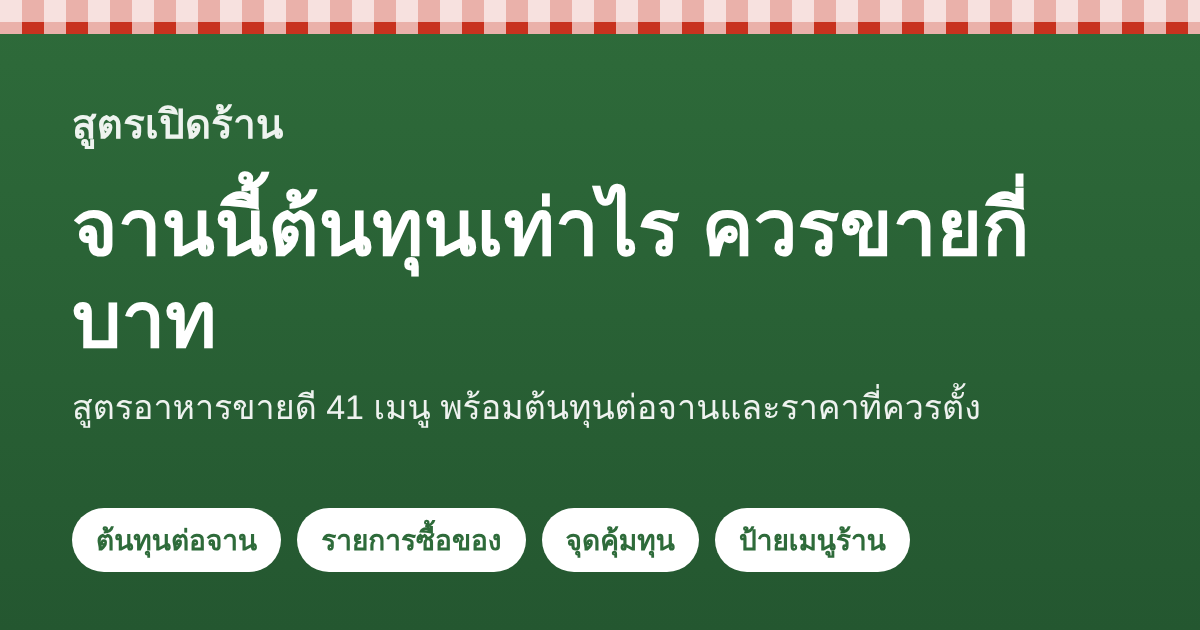
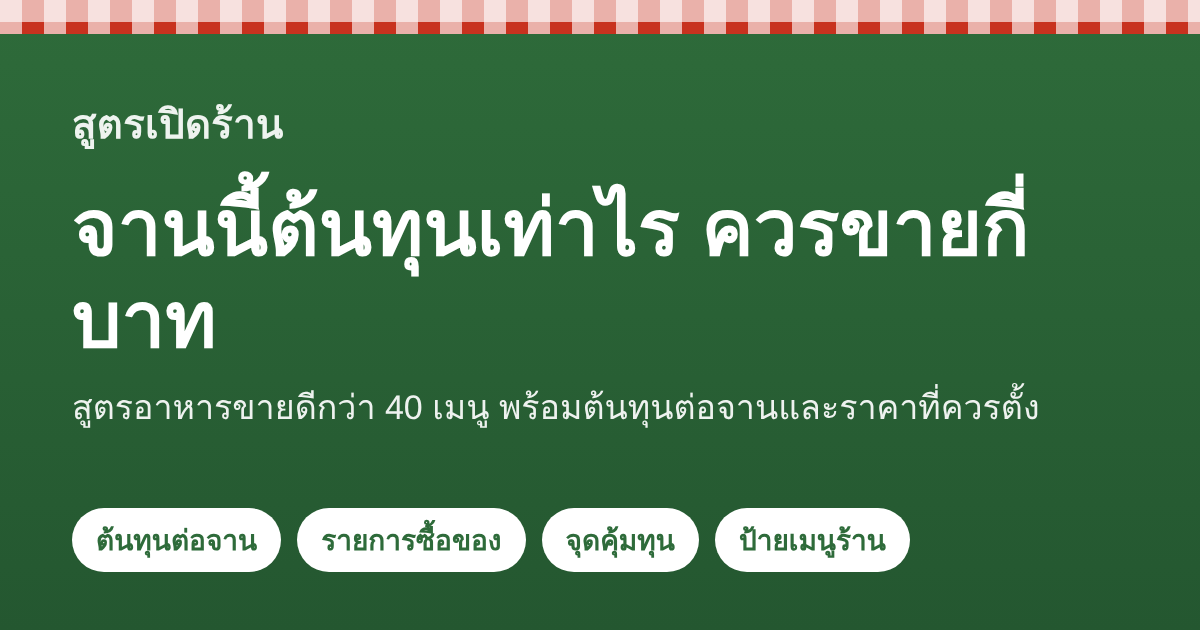
Add stock/shipping, timetable/attendance, counter sales
Claude-Session: https://claude.ai/code/session_01JY46Mq7wkg6osFKinFdLUy

Changed region(s): [[0.2467, 0.6032, 0.8633, 0.6937]]

diff --git a/index.html b/index.html
@@ -179,6 +179,13 @@ dialog.dlg::backdrop{background:rgba(10,20,18,.5)}
 .chk label{display:flex;gap:10px;align-items:flex-start;cursor:pointer}
 .chk input{width:18px;height:18px;margin-top:4px;flex:none;accent-color:var(--leaf)}
 .chk input:checked+span{color:var(--ink-soft);text-decoration:line-through}
+
+/* counter sales */
+.pos-grid{display:grid;grid-template-columns:repeat(auto-fill,minmax(130px,1fr));gap:10px}
+.pos-btn{font:inherit;text-align:left;padding:12px;border-radius:12px;border:1.5px solid var(--line);background:#fff;color:var(--ink);cursor:pointer;display:grid;gap:4px;box-shadow:0 3px 0 rgba(0,0,0,.12);transition:transform .08s,box-shadow .08s}
+.pos-btn:active{transform:translateY(3px);box-shadow:none}
+.pos-btn b{font-weight:600;line-height:1.3}
+.pos-btn span{color:var(--chili);font-weight:700;font-variant-numeric:tabular-nums}
 </style>
 </head>
 <body>
@@ -190,6 +197,7 @@ dialog.dlg::backdrop{background:rgba(10,20,18,.5)}
     <a href="#plan" data-tab="plan"><svg class="ic" viewBox="0 0 24 24" aria-hidden="true"><path d="M3 4h3l2.5 11h9.5l2-8H7"/><circle cx="10" cy="19" r="1.4"/><circle cx="17" cy="19" r="1.4"/></svg>ซื้อของ</a>
     <a href="#prices" data-tab="prices"><svg class="ic" viewBox="0 0 24 24" aria-hidden="true"><path d="M3 12V4h8l10 10-8 8z"/><circle cx="7.5" cy="8.5" r="1.5"/></svg>ราคาของ</a>
     <a href="#breakeven" data-tab="breakeven"><svg class="ic" viewBox="0 0 24 24" aria-hidden="true"><path d="M4 20V5M4 20h16"/><path d="M4 16l6-5 4 3 6-7"/></svg>จุดคุ้มทุน</a>
+    <a href="#pos" data-tab="pos"><svg class="ic" viewBox="0 0 24 24" aria-hidden="true"><rect x="4" y="3" width="16" height="18" rx="2"/><path d="M8 7h8M8 12h.01M12 12h.01M16 12h.01M8 16h.01M12 16h.01M16 16h.01"/></svg>ขายหน้าร้าน</a>
     <a href="#mine" data-tab="mine"><svg class="ic" viewBox="0 0 24 24" aria-hidden="true"><path d="M12 5v14M5 12h14"/></svg>เพิ่มสูตร</a>
   </nav>
 </div></header>
@@ -287,6 +295,27 @@ dialog.dlg::backdrop{background:rgba(10,20,18,.5)}
   </div>
 </section>
 
+<section class="view" id="v-pos">
+  <div class="detail">
+    <div class="card">
+      <h2>แตะเมนูเพื่อคิดเงิน</h2>
+      <div class="pos-grid" id="posMenu"></div>
+      <p class="note">เมนูมาจากรายการในแท็บซื้อของ และราคามาจากป้ายเมนูร้าน</p>
+    </div>
+    <div class="card">
+      <h2>บิลนี้</h2>
+      <div id="posBill"></div>
+      <div class="fields" style="margin-top:12px"><label class="f">รับเงินมา (บาท)<input type="number" id="posCash" min="0" step="1" inputmode="decimal" placeholder="ไม่ใส่ก็ได้"></label></div>
+      <div class="kv" id="posTotal" aria-live="polite"></div>
+      <div class="row" style="margin-top:14px"><button class="btn" id="posDone" type="button">จบบิล</button><button class="btn alt" id="posClear" type="button">ล้างบิล</button></div>
+      <h3>ยอดขายวันนี้</h3>
+      <div id="posDay"></div>
+      <div class="row" style="margin-top:10px"><button class="btn small danger" id="posReset" type="button">ล้างยอดวันนี้</button></div>
+      <p class="note">ยอดขายเก็บอยู่ในเบราว์เซอร์ของเครื่องนี้ และเก็บย้อนหลัง 30 วัน กำไรเป็นค่าประมาณจากต้นทุนวัตถุดิบบวกค่ากล่องและแก๊ส 5 บาทต่อจาน</p>
+    </div>
+  </div>
+</section>
+
 <section class="view" id="v-mine">
   <div class="card" style="max-width:640px">
     <h2>เพิ่มสูตรของฉัน</h2>
@@ -309,13 +338,14 @@ dialog.dlg::backdrop{background:rgba(10,20,18,.5)}
 <h3>แก้ราคาวัตถุดิบ</h3><p>ราคาตั้งต้นเป็นค่าประมาณ เปิดแท็บราคาของ แล้วแก้เป็นราคาที่คุณซื้อจริง ต้นทุนทุกสูตรจะคำนวณใหม่ทันที</p>
 <h3>รายการซื้อของ</h3><ol><li>ในหน้าสูตร กดเพิ่มในรายการซื้อของ ทำซ้ำกับทุกเมนูที่จะขาย</li><li>เปิดแท็บซื้อของ จะเห็นของที่ต้องซื้อรวมทุกเมนู และเงินที่ต้องเตรียม</li><li>กดคัดลอกรายการ เพื่อส่งเข้า LINE หรือจดไปตลาด</li><li>ด้านล่างมีสรุปแผนร้านใน 1 หน้า แสดงรายได้ ต้นทุน และเงินที่เจ้าของเหลือต่อเดือน พร้อมบอกว่าเมนูไหนทำกำไรมากที่สุด</li><li>ถัดลงไปมีป้ายเมนูร้าน ใส่ชื่อร้าน แก้ราคา แล้วกดพิมพ์ป้ายเมนูติดหน้าร้านได้</li></ol>
 <h3>จุดคุ้มทุน</h3><p>เปิดแท็บจุดคุ้มทุน กรอกค่าใช้จ่ายประจำของร้าน แล้วดูว่าต้องขายวันละกี่จานจึงไม่ขาดทุน</p>
+<h3>ขายหน้าร้าน</h3><ol><li>เปิดแท็บขายหน้าร้าน แตะเมนูที่ลูกค้าสั่งเพื่อรวมยอด</li><li>ใส่เงินที่รับมาเพื่อดูเงินทอน แล้วกดจบบิล</li><li>ดูยอดขาย จำนวนบิล และเมนูที่ขายดีของวันนี้ได้ด้านล่าง</li></ol>
 <h3>ค้นหาและเรียงเมนู</h3><p>ในหน้าสูตร พิมพ์ชื่อเมนูเพื่อค้นหา หรือเรียงตามต้นทุนต่ำสุด กำไรต่อจานสูงสุด และเวลาทำ</p>
 <h3>สูตรและรูปของคุณเอง</h3><p>เพิ่มสูตรได้ที่แท็บเพิ่มสูตร และใส่รูปถ่ายอาหารของร้านได้ในหน้าสูตรแต่ละสูตร</p></div></dialog>
 <dialog class="dlg" id="dlgPolicy" aria-labelledby="dlgPolicyT"><div class="dlg-h"><b id="dlgPolicyT">นโยบายความเป็นส่วนตัวและความปลอดภัยของข้อมูล</b><button class="dlg-x" type="button" data-close>ปิด</button></div><div class="dlg-b">
 <p><small>ปรับปรุงล่าสุด 15 พฤศจิกายน 2569</small></p>
 <p>สูตรเปิดร้านเป็นเครื่องมือที่ทำงานในเบราว์เซอร์ของคุณทั้งหมด ไม่มีระบบสมาชิก และไม่มีเซิร์ฟเวอร์ของเราที่รับหรือเก็บข้อมูลที่คุณกรอก</p>
 <h3>ข้อมูลที่เว็บนี้เก็บ</h3>
-<ul><li>ราคาวัตถุดิบที่คุณแก้ รายการซื้อของ ชื่อร้านและราคาในป้ายเมนู ตัวเลขในหน้าจุดคุ้มทุน สูตรที่คุณเพิ่มเอง และรูปถ่ายที่คุณใส่ เก็บไว้ในเบราว์เซอร์ของเครื่องนี้เท่านั้น</li><li>รูปถ่ายไม่ถูกอัปโหลดไปที่ใด คนอื่นที่เปิดเว็บนี้จะไม่เห็นสูตรและรูปของคุณ</li></ul>
+<ul><li>ราคาวัตถุดิบที่คุณแก้ รายการซื้อของ ชื่อร้านและราคาในป้ายเมนู ยอดขายรายวันจากหน้าขายหน้าร้าน ตัวเลขในหน้าจุดคุ้มทุน สูตรที่คุณเพิ่มเอง และรูปถ่ายที่คุณใส่ เก็บไว้ในเบราว์เซอร์ของเครื่องนี้เท่านั้น</li><li>รูปถ่ายไม่ถูกอัปโหลดไปที่ใด คนอื่นที่เปิดเว็บนี้จะไม่เห็นสูตรและรูปของคุณ</li></ul>
 <h3>สิ่งที่เว็บนี้ไม่ทำ</h3>
 <ul><li>ไม่มีการสมัครสมาชิก ไม่ขออีเมลหรือรหัสผ่านของคุณ</li><li>ไม่ส่งข้อมูลที่คุณกรอกออกไปนอกเครื่อง</li><li>ไม่ใช้คุกกี้ติดตาม ไม่มีโฆษณา และไม่มีระบบวิเคราะห์ผู้เข้าชม ณ วันที่ปรับปรุงนโยบายนี้</li></ul>
 <h3>ผู้ให้บริการภายนอก</h3>
@@ -363,7 +393,7 @@ const CAT = {
   tapioca:['แป้งมัน',500,'ก.','ถุง 500 ก.',20], morningGlory:['ผักบุ้ง',1000,'ก.','1 กก.',30], redCurry:['พริกแกงพะแนง',1000,'ก.','1 กก.',120],
   corn:['ข้าวโพดหวานต้ม',1000,'ก.','1 กก.',45], chiliSauce:['น้ำจิ้มไก่',700,'มล.','ขวด 700 มล.',35], softTofu:['เต้าหู้ไข่',4,'หลอด','แพ็ก 4 หลอด',30],
   instantNoodle:['บะหมี่กึ่งสำเร็จรูป',10,'ซอง','แพ็ก 10 ซอง',65], bread:['ขนมปังแผ่น',20,'แผ่น','1 แถว ราว 20 แผ่น',42], margarine:['มาการีน',1000,'ก.','1 กก.',85], syrup:['น้ำหวานเข้มข้นกลิ่นสละ',710,'มล.','ขวด 710 มล.',62],
-  cabbage:['กะหล่ำปลี',1000,'ก.','1 กก.',25], sukiSauce:['น้ำจิ้มสุกี้',850,'มล.','ขวด 850 มล.',55], coffee:['ผงกาแฟโบราณ',500,'ก.','ถุง 500 ก.',90], soda:['โซดา',6,'ขวด','แพ็ก 6 ขวด',48]
+  plara:['น้ำปลาร้าปรุงสุก',400,'มล.','ขวด 400 มล.',25], crab:['ปูดอง',1000,'ก.','1 กก.',150], cabbage:['กะหล่ำปลี',1000,'ก.','1 กก.',25], sukiSauce:['น้ำจิ้มสุกี้',850,'มล.','ขวด 850 มล.',55], coffee:['ผงกาแฟโบราณ',500,'ก.','ถุง 500 ก.',90], soda:['โซดา',6,'ขวด','แพ็ก 6 ขวด',48]
 };
 const DEFAULT_PRICES = Object.fromEntries(Object.entries(CAT).map(([k, c]) => [k, c[4]]));
 let prices = Object.assign({}, DEFAULT_PRICES, store.get('rc_prices', {}));
@@ -533,7 +563,19 @@ const RECIPES = [
  {id:'limesoda', name:'น้ำมะนาวโซดา', cat:'เครื่องดื่ม', min:3, art:['glass','#e4ee9a','#f4f8c8','#ffffff','#ffffff'],
   ing:[['soda',1],['lime',1.5],['sugar',25],['ice',150]],
   steps:['ละลายน้ำตาลกับน้ำร้อนเล็กน้อยเป็นน้ำเชื่อม','บีบน้ำมะนาวใส่แก้ว เติมน้ำเชื่อม คนให้เข้ากัน','ใส่น้ำแข็ง','เติมโซดาตอนเสิร์ฟ เพื่อให้ยังซ่า'],
-  tip:'ทำน้ำเชื่อมเก็บไว้เป็นขวด ใช้ร่วมกับเครื่องดื่มทุกเมนูได้ และตวงง่ายกว่าน้ำตาลทราย'}
+  tip:'ทำน้ำเชื่อมเก็บไว้เป็นขวด ใช้ร่วมกับเครื่องดื่มทุกเมนูได้ และตวงง่ายกว่าน้ำตาลทราย'},
+ {id:'padprikgaeng', name:'ผัดพริกแกงหมูถั่วฝักยาวราดข้าว', cat:'ข้าวราด', min:8, art:['plate','#fdfdf6','#c8552a','#2f7d32','#f6efcf'],
+  ing:[['rice',100],['pork',80],['longBean',60],['redCurry',20],['kaffir',1],['fishSauce',8],['sugar',4],['oil',15]],
+  steps:['ผัดพริกแกงกับน้ำมันไฟอ่อนจนหอม','ใส่หมูหั่นชิ้น ผัดจนสุก','ใส่ถั่วฝักยาวหั่นท่อน ปรุงด้วยน้ำปลาและน้ำตาล เติมน้ำเล็กน้อย','โรยใบมะกรูดซอย ตักราดข้าว'],
+  tip:'ใช้พริกแกงตัวเดียวกับพะแนง ช่วยให้ของในร้านหมุนเร็ว ไม่ค้างสต็อก'},
+ {id:'tomkha', name:'ต้มข่าไก่กับข้าวสวย', cat:'แกงและต้ม', min:20, art:['bowl','#f4ecd6','#f0dcb2','#2f7d32','#c8321f'],
+  ing:[['chicken',90],['coconut',150],['mushroom',50],['galangal',8],['lemongrass',8],['kaffir',2],['chili',3],['lime',1],['fishSauce',15],['rice',100]],
+  steps:['ต้มกะทิกับข่า ตะไคร้ และใบมะกรูด ด้วยไฟอ่อน ระวังอย่าให้เดือดจัด','ใส่ไก่ ต้มจนสุก แล้วใส่เห็ดฟาง','ปรุงด้วยน้ำปลา ปิดไฟ','เติมน้ำมะนาวและพริกบุบ ตักเสิร์ฟกับข้าวสวย'],
+  tip:'ใช้สมุนไพรชุดเดียวกับต้มยำ ซื้อครั้งเดียวได้สองเมนู และกะทิช่วยให้ตั้งราคาได้สูงขึ้น'},
+ {id:'tumpoo', name:'ส้มตำปูปลาร้า', cat:'ยำและตำ', min:5, art:['plate','#fdfdf6','#e3cf8f','#8a5a2b','#c8321f'],
+  ing:[['papaya',150],['tomato',30],['longBean',20],['chili',5],['garlic',5],['lime',1],['plara',25],['crab',30],['palmSugar',8],['fishSauce',5]],
+  steps:['โขลกกระเทียมกับพริกพอแตก','ใส่ถั่วฝักยาวและมะเขือเทศ บุบพอช้ำ','ปรุงด้วยน้ำปลาร้า น้ำตาลปี๊บ น้ำปลา และน้ำมะนาว','ใส่มะละกอสับและปูดอง คลุกให้เข้ากัน'],
+  tip:'ใช้น้ำปลาร้าที่ต้มสุกแล้วเท่านั้น และเก็บปูดองในความเย็นตลอดเวลา เพื่อความปลอดภัยของลูกค้า'}
 ];
 let custom = store.get('rc_custom', []);
 const allRecipes = () => RECIPES.concat(custom);
@@ -566,19 +608,20 @@ function art(r){
 }
 
 /* ---------- views ---------- */
-const TABS = ['recipes','plan','prices','breakeven','mine'];
+const TABS = ['recipes','plan','prices','breakeven','pos','mine'];
 let filter = 'ทั้งหมด';
 function route(){
   const h = location.hash.slice(1);
   const rec = h.startsWith('r-') ? findRecipe(h.slice(2)) : null;
   const tab = rec ? 'detail' : TABS.includes(h) ? h : 'recipes';
-  ['recipes','detail','plan','prices','breakeven','mine'].forEach(n => $('v-' + n).classList.toggle('on', n === tab));
+  ['recipes','detail','plan','prices','breakeven','pos','mine'].forEach(n => $('v-' + n).classList.toggle('on', n === tab));
   document.querySelectorAll('nav.tabs a').forEach(a => a.dataset.tab === (rec ? 'recipes' : tab) ? a.setAttribute('aria-current','page') : a.removeAttribute('aria-current'));
   if (tab === 'recipes') renderCards();
   if (tab === 'detail') renderDetail(rec);
   if (tab === 'plan') renderPlan();
   if (tab === 'prices') renderPrices();
   if (tab === 'breakeven') renderBE();
+  if (tab === 'pos') renderPOS();
   scrollTo(0, 0);
 }
 function renderCards(){
@@ -700,6 +743,34 @@ function renderPrices(){
   $('priceGrid').innerHTML = Object.entries(CAT).map(([k, c]) => `<label><span>${esc(c[0])}<small>${esc(c[3])}</small></span><input type="number" min="0" step="1" value="${prices[k]}" data-price="${k}" inputmode="decimal"></label>`).join('');
 }
 
+let bill = {};
+const dayKey = () => { const d = new Date(); return d.getFullYear() + '-' + String(d.getMonth() + 1).padStart(2, '0') + '-' + String(d.getDate()).padStart(2, '0'); };
+function posItems(){
+  const plan = store.get('rc_plan', {}), menu = store.get('rc_menu', {});
+  return Object.keys(plan).filter(findRecipe).map(id => { const r = findRecipe(id), c = plateCost(r) + 5, pr = parseFloat(menu[id]); return { id, name: r.name, cost: c, price: isFinite(pr) ? pr : roundUp5(c / 0.45) }; });
+}
+function renderPOS(){
+  const items = posItems();
+  $('posMenu').innerHTML = items.length ? items.map(i => `<button type="button" class="pos-btn" data-add="${i.id}"><b>${esc(i.name)}</b><span>${b0(i.price)} ฿</span></button>`).join('')
+    : '<p class="empty">ยังไม่มีเมนู เปิดหน้าสูตรแล้วกดเพิ่มในรายการซื้อของก่อน เมนูจะมาแสดงที่นี่</p>';
+  renderBill();
+}
+function renderBill(){
+  const rows = posItems().filter(i => bill[i.id]), total = rows.reduce((t, i) => t + i.price * bill[i.id], 0);
+  $('posBill').innerHTML = rows.length ? rows.map(i => `<div class="plan-item" style="grid-template-columns:1fr auto auto"><span>${esc(i.name)} × ${bill[i.id]}</span><b>${b0(i.price * bill[i.id])} ฿</b><button class="btn small danger" type="button" data-sub="${i.id}" aria-label="ลด ${esc(i.name)} 1 จาน">ลด 1</button></div>`).join('') : '<p class="empty">แตะเมนูเพื่อเริ่มบิล</p>';
+  const cash = parseFloat($('posCash').value), ch = isFinite(cash) ? cash - total : null;
+  $('posTotal').innerHTML = `<div><span>รวม</span><strong>${b0(total)} ฿</strong></div><div><span>เงินทอน</span><strong style="color:${ch != null && ch < 0 ? 'var(--bad)' : 'inherit'}">${ch == null ? '-' : ch < 0 ? 'ขาดอีก ' + b0(-ch) + ' ฿' : b0(ch) + ' ฿'}</strong></div>`;
+  const day = store.get('rc_sales', {})[dayKey()] || { bills:0, rev:0, profit:0, items:{} };
+  $('posDay').innerHTML = `<div class="kv"><div><span>จำนวนบิล</span><strong>${b0(day.bills)}</strong></div><div><span>ยอดขาย</span><strong>${b0(day.rev)} ฿</strong></div><div class="wide"><span>กำไรโดยประมาณ</span><strong>${b0(day.profit)} ฿</strong></div></div>`
+    + Object.entries(day.items).sort((a, b) => b[1] - a[1]).map(e => `<div class="plan-item" style="grid-template-columns:1fr auto"><span>${esc(e[0])}</span><b>${b0(e[1])} จาน</b></div>`).join('');
+}
+function posDone(){
+  const rows = posItems().filter(i => bill[i.id]); if (!rows.length) return;
+  const all = store.get('rc_sales', {}), k = dayKey(), day = all[k] || { bills:0, rev:0, profit:0, items:{} };
+  day.bills++; rows.forEach(i => { const q = bill[i.id]; day.rev += i.price * q; day.profit += (i.price - i.cost) * q; day.items[i.name] = (day.items[i.name] || 0) + q; });
+  all[k] = day; Object.keys(all).sort().slice(0, -30).forEach(old => delete all[old]);
+  store.set('rc_sales', all); bill = {}; $('posCash').value = ''; renderBill();
+}
 const BE_IDS = ['beRent','beStaff','beUtil','beOther','beOwner','beDays','bePrice','beCost','bePlates'];
 function renderBE(){
   $('beRecipe').innerHTML = '<option value="">กรอกเอง</option>' + allRecipes().map(r => `<option value="${r.id}">${esc(r.name)}</option>`).join('');
@@ -724,6 +795,17 @@ function calcBE(){
 }
 
 /* ---------- events ---------- */
+$('v-pos').addEventListener('click', e => {
+  const a = e.target.closest('[data-add]'), d = e.target.closest('[data-sub]');
+  if (a){ bill[a.dataset.add] = (bill[a.dataset.add] || 0) + 1; renderBill(); }
+  if (d){ bill[d.dataset.sub]--; if (bill[d.dataset.sub] <= 0) delete bill[d.dataset.sub]; renderBill(); }
+});
+$('posCash').addEventListener('input', renderBill);
+$('posDone').addEventListener('click', posDone);
+$('posClear').addEventListener('click', () => { bill = {}; $('posCash').value = ''; renderBill(); });
+$('posReset').addEventListener('click', e => { const b = e.currentTarget;
+  if (b.dataset.sure){ const all = store.get('rc_sales', {}); delete all[dayKey()]; store.set('rc_sales', all); delete b.dataset.sure; b.textContent = 'ล้างยอดวันนี้'; renderBill(); }
+  else { b.dataset.sure = '1'; b.textContent = 'กดอีกครั้งเพื่อยืนยันการล้าง'; setTimeout(() => { delete b.dataset.sure; b.textContent = 'ล้างยอดวันนี้'; }, 4000); } });
 $('v-breakeven').addEventListener('input', e => {
   if (e.target.id === 'beRecipe' && e.target.value){ const r = findRecipe(e.target.value), c = plateCost(r) + 5; $('beCost').value = c.toFixed(2); $('bePrice').value = roundUp5(c / 0.45); }
   calcBE();
